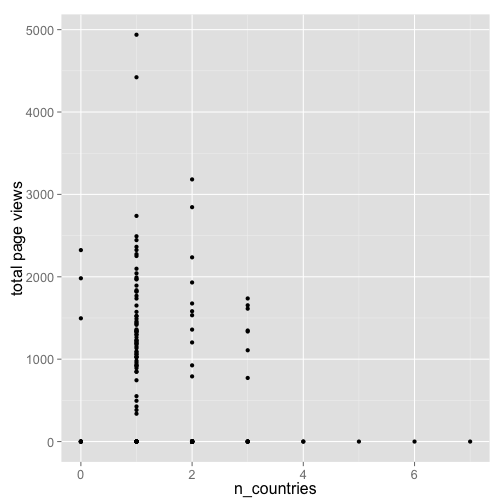
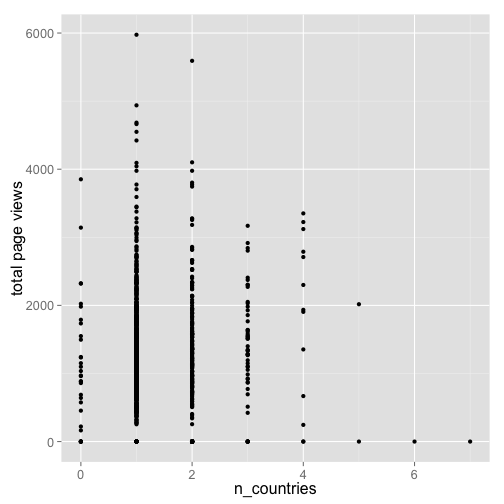
changes

diff --git a/_site/index.html b/_site/index.html
@@ -106,10 +106,10 @@ devtools::install_github("rplos")
 #&gt; [1] "Canada"
 #&gt; 
 #&gt; [[4]]
-#&gt; [1] "United States"
+#&gt; [1] "China"
 #&gt; 
 #&gt; [[5]]
-#&gt; [1] "Canada"
+#&gt; [1] "Germany"
 </code></pre>
 
 <p>You can combine this data with the previously collected data:</p>
@@ -127,27 +127,27 @@ head(articles$data)
 #&gt; 1 10.1371/journal.pone.0004237
 #&gt; 2 10.1371/journal.pone.0006239
 #&gt; 3 10.1371/journal.pone.0034856
-#&gt; 4 10.1371/journal.pone.0023490
-#&gt; 5 10.1371/journal.pone.0023141
-#&gt;                                                                                                                                                                                                                                                                                                                                                                                                                                                                                                                          author_affiliate
-#&gt; 1                                                                                                                                        Division of General Internal Medicine, Department of Medicine, Radboud University Nijmegen Medical Center, Nijmegen, The Netherlands; Nijmegen Institute of Infection, Inflammation and Immunity (N4i), Nijmegen, The Netherlands; Department of Pharmacology and Toxicology, Nijmegen Center for Molecular Life Sciences, Radboud University Nijmegen Medical Center, Nijmegen, The Netherlands
-#&gt; 2                                                                                                                                                                                                                                                                                                                                                              State Key Laboratory of Cognitive Neuroscience and Learning, Beijing Normal University, Beijing, China; Graduate University of Chinese Academy of Sciences, Beijing, China
-#&gt; 3                                                                                                                                                                                                                                                                                                         Rotman Research Institute of Baycrest, Toronto, Ontario, Canada; Department of Psychology, University of Toronto, Toronto, Ontario, Canada; Dalla Lana School of Public Health, University of Toronto, Toronto, Ontario, Canada
-#&gt; 4 AstraZeneca R&amp;D Boston, Waltham, Massachusetts, United States of America; Department of Biology, Rosenstiel Basic Medical Sciences Research Center, Brandeis University, Waltham, Massachusetts, United States of America; Laboratory of Molecular Carcinogenesis, National Institute of Environmental Health Sciences, National Institutes of Health, Research Triangle Park, North Carolina, United States of America; Molecular Cardiology Research Institute, Tufts Medical Center, Boston, Massachusetts, United States of America
-#&gt; 5                                                                                                                                                                                                                                                                                                                                                                                                                                                                  Department of Medicine, McMaster University, Hamilton, Ontario, Canada
-#&gt;       countries
-#&gt; 1   Netherlands
-#&gt; 2         China
-#&gt; 3        Canada
-#&gt; 4 United States
-#&gt; 5        Canada
+#&gt; 4 10.1371/journal.pone.0021965
+#&gt; 5 10.1371/journal.pone.0008295
+#&gt;                                                                                                                                                                                                                                                                                                                                                                                   author_affiliate
+#&gt; 1 Division of General Internal Medicine, Department of Medicine, Radboud University Nijmegen Medical Center, Nijmegen, The Netherlands; Nijmegen Institute of Infection, Inflammation and Immunity (N4i), Nijmegen, The Netherlands; Department of Pharmacology and Toxicology, Nijmegen Center for Molecular Life Sciences, Radboud University Nijmegen Medical Center, Nijmegen, The Netherlands
+#&gt; 2                                                                                                                                                                                                                       State Key Laboratory of Cognitive Neuroscience and Learning, Beijing Normal University, Beijing, China; Graduate University of Chinese Academy of Sciences, Beijing, China
+#&gt; 3                                                                                                                                                                  Rotman Research Institute of Baycrest, Toronto, Ontario, Canada; Department of Psychology, University of Toronto, Toronto, Ontario, Canada; Dalla Lana School of Public Health, University of Toronto, Toronto, Ontario, Canada
+#&gt; 4                                                                                                                             Hefei National Laboratory for Physical Sciences at Microscale, School of Life Sciences, University of Science and Technology of China, Hefei, Anhui, People's Republic of China; School of Life Sciences, Anhui University, Hefei, Anhui, People's Republic of China
+#&gt; 5                                                                                                                                                                                                                                                                                                                   Institute of Biochemistry, Charité-Universitätsmedizin Berlin, Berlin, Germany
+#&gt;     countries
+#&gt; 1 Netherlands
+#&gt; 2       China
+#&gt; 3      Canada
+#&gt; 4       China
+#&gt; 5     Germany
 </code></pre>
 
 <h2>Bigger data set</h2>
 
-<p>Okay, cool, lets do it on a bigger data set:</p>
+<p>Okay, cool, lets do it on a bigger data set, and this time, we'll get another variable <code>counter_total_all</code>, which is the combination of page views/pdf downloads for each article. This will allow us to ask <em>Is number of countries included in the authors related to page views?</em>. I have no idea if this question makes sense, but nonetheless, it is a question :)</p>
 
-<pre><code class="r">articles &lt;- searchplos(q='*:*', limit = 200,
+<pre><code class="r">articles &lt;- searchplos(q='*:*', limit = 1000,
     fl=c("id","counter_total_all","author_affiliate"), 
     fq=list('article_type:"Research Article"', "doc_type:full"))
 </code></pre>
@@ -162,21 +162,28 @@ df &lt;- articles$data
 df$countries &lt;- sapply(countries, splitem)
 </code></pre>
 
+<p>Let's remove those rows with 0 countries, since the authors must be from somewhere, so the country name matching must have errored.</p>
+
+<pre><code class="r">df$n_countries &lt;- sapply(countries, length)
+df &lt;- df[ df$n_countries &gt; 0, ]
+</code></pre>
+
 <p>Plot data</p>
 
 <pre><code class="r">library("ggplot2")
-df$n_countries &lt;- sapply(countries, length)
 ggplot(df, aes(n_countries, as.numeric(counter_total_all))) +
   geom_point() +
   labs(y="total page views") + 
   theme_grey(base_size = 16)
 </code></pre>
 
-<p><img src="/public/img/2014-12-03-rplos-pubs-country/unnamed-chunk-9-1.png" alt="" /></p>
+<p><img src="/public/img/2014-12-03-rplos-pubs-country/unnamed-chunk-10-1.png" alt="" /></p>
+
+<p>Conclusion: meh, maybe, maybe not</p>
 
 <h2>Into rplos</h2>
 
-<p>We'll probably add a function like this into <code>rplos</code>, as a convenient way to get handle this use case.</p>
+<p>We'll probably add a function like this into <code>rplos</code>, as a convenient way to handle this use case.</p>
 
   </div>
   

diff --git a/_site/2014/12/rplos-pubs-country/index.html b/_site/2014/12/rplos-pubs-country/index.html
@@ -100,10 +100,10 @@ devtools::install_github("rplos")
 #&gt; [1] "Canada"
 #&gt; 
 #&gt; [[4]]
-#&gt; [1] "United States"
+#&gt; [1] "China"
 #&gt; 
 #&gt; [[5]]
-#&gt; [1] "Canada"
+#&gt; [1] "Germany"
 </code></pre>
 
 <p>You can combine this data with the previously collected data:</p>
@@ -121,27 +121,27 @@ head(articles$data)
 #&gt; 1 10.1371/journal.pone.0004237
 #&gt; 2 10.1371/journal.pone.0006239
 #&gt; 3 10.1371/journal.pone.0034856
-#&gt; 4 10.1371/journal.pone.0023490
-#&gt; 5 10.1371/journal.pone.0023141
-#&gt;                                                                                                                                                                                                                                                                                                                                                                                                                                                                                                                          author_affiliate
-#&gt; 1                                                                                                                                        Division of General Internal Medicine, Department of Medicine, Radboud University Nijmegen Medical Center, Nijmegen, The Netherlands; Nijmegen Institute of Infection, Inflammation and Immunity (N4i), Nijmegen, The Netherlands; Department of Pharmacology and Toxicology, Nijmegen Center for Molecular Life Sciences, Radboud University Nijmegen Medical Center, Nijmegen, The Netherlands
-#&gt; 2                                                                                                                                                                                                                                                                                                                                                              State Key Laboratory of Cognitive Neuroscience and Learning, Beijing Normal University, Beijing, China; Graduate University of Chinese Academy of Sciences, Beijing, China
-#&gt; 3                                                                                                                                                                                                                                                                                                         Rotman Research Institute of Baycrest, Toronto, Ontario, Canada; Department of Psychology, University of Toronto, Toronto, Ontario, Canada; Dalla Lana School of Public Health, University of Toronto, Toronto, Ontario, Canada
-#&gt; 4 AstraZeneca R&amp;D Boston, Waltham, Massachusetts, United States of America; Department of Biology, Rosenstiel Basic Medical Sciences Research Center, Brandeis University, Waltham, Massachusetts, United States of America; Laboratory of Molecular Carcinogenesis, National Institute of Environmental Health Sciences, National Institutes of Health, Research Triangle Park, North Carolina, United States of America; Molecular Cardiology Research Institute, Tufts Medical Center, Boston, Massachusetts, United States of America
-#&gt; 5                                                                                                                                                                                                                                                                                                                                                                                                                                                                  Department of Medicine, McMaster University, Hamilton, Ontario, Canada
-#&gt;       countries
-#&gt; 1   Netherlands
-#&gt; 2         China
-#&gt; 3        Canada
-#&gt; 4 United States
-#&gt; 5        Canada
+#&gt; 4 10.1371/journal.pone.0021965
+#&gt; 5 10.1371/journal.pone.0008295
+#&gt;                                                                                                                                                                                                                                                                                                                                                                                   author_affiliate
+#&gt; 1 Division of General Internal Medicine, Department of Medicine, Radboud University Nijmegen Medical Center, Nijmegen, The Netherlands; Nijmegen Institute of Infection, Inflammation and Immunity (N4i), Nijmegen, The Netherlands; Department of Pharmacology and Toxicology, Nijmegen Center for Molecular Life Sciences, Radboud University Nijmegen Medical Center, Nijmegen, The Netherlands
+#&gt; 2                                                                                                                                                                                                                       State Key Laboratory of Cognitive Neuroscience and Learning, Beijing Normal University, Beijing, China; Graduate University of Chinese Academy of Sciences, Beijing, China
+#&gt; 3                                                                                                                                                                  Rotman Research Institute of Baycrest, Toronto, Ontario, Canada; Department of Psychology, University of Toronto, Toronto, Ontario, Canada; Dalla Lana School of Public Health, University of Toronto, Toronto, Ontario, Canada
+#&gt; 4                                                                                                                             Hefei National Laboratory for Physical Sciences at Microscale, School of Life Sciences, University of Science and Technology of China, Hefei, Anhui, People's Republic of China; School of Life Sciences, Anhui University, Hefei, Anhui, People's Republic of China
+#&gt; 5                                                                                                                                                                                                                                                                                                                   Institute of Biochemistry, Charité-Universitätsmedizin Berlin, Berlin, Germany
+#&gt;     countries
+#&gt; 1 Netherlands
+#&gt; 2       China
+#&gt; 3      Canada
+#&gt; 4       China
+#&gt; 5     Germany
 </code></pre>
 
 <h2>Bigger data set</h2>
 
-<p>Okay, cool, lets do it on a bigger data set:</p>
+<p>Okay, cool, lets do it on a bigger data set, and this time, we'll get another variable <code>counter_total_all</code>, which is the combination of page views/pdf downloads for each article. This will allow us to ask <em>Is number of countries included in the authors related to page views?</em>. I have no idea if this question makes sense, but nonetheless, it is a question :)</p>
 
-<pre><code class="r">articles &lt;- searchplos(q='*:*', limit = 200,
+<pre><code class="r">articles &lt;- searchplos(q='*:*', limit = 1000,
     fl=c("id","counter_total_all","author_affiliate"), 
     fq=list('article_type:"Research Article"', "doc_type:full"))
 </code></pre>
@@ -156,21 +156,28 @@ df &lt;- articles$data
 df$countries &lt;- sapply(countries, splitem)
 </code></pre>
 
+<p>Let's remove those rows with 0 countries, since the authors must be from somewhere, so the country name matching must have errored.</p>
+
+<pre><code class="r">df$n_countries &lt;- sapply(countries, length)
+df &lt;- df[ df$n_countries &gt; 0, ]
+</code></pre>
+
 <p>Plot data</p>
 
 <pre><code class="r">library("ggplot2")
-df$n_countries &lt;- sapply(countries, length)
 ggplot(df, aes(n_countries, as.numeric(counter_total_all))) +
   geom_point() +
   labs(y="total page views") + 
   theme_grey(base_size = 16)
 </code></pre>
 
-<p><img src="/public/img/2014-12-03-rplos-pubs-country/unnamed-chunk-9-1.png" alt="" /></p>
+<p><img src="/public/img/2014-12-03-rplos-pubs-country/unnamed-chunk-10-1.png" alt="" /></p>
+
+<p>Conclusion: meh, maybe, maybe not</p>
 
 <h2>Into rplos</h2>
 
-<p>We'll probably add a function like this into <code>rplos</code>, as a convenient way to get handle this use case.</p>
+<p>We'll probably add a function like this into <code>rplos</code>, as a convenient way to handle this use case.</p>
 
 </div>
 

diff --git a/_drafts/2014-12-03-rplos-pubs-country.md b/_drafts/2014-12-03-rplos-pubs-country.md
@@ -60,10 +60,10 @@ articles <- searchplos(q='*:*', limit = 5,
 #> [1] "Canada"
 #> 
 #> [[4]]
-#> [1] "United States"
+#> [1] "China"
 #> 
 #> [[5]]
-#> [1] "Canada"
+#> [1] "Germany"
 ```
 
 You can combine this data with the previously collected data:
@@ -83,31 +83,33 @@ head(articles$data)
 #> 1 10.1371/journal.pone.0004237
 #> 2 10.1371/journal.pone.0006239
 #> 3 10.1371/journal.pone.0034856
-#> 4 10.1371/journal.pone.0023490
-#> 5 10.1371/journal.pone.0023141
-#>                                                                                                                                                                                                                                                                                                                                                                                                                                                                                                                          author_affiliate
-#> 1                                                                                                                                        Division of General Internal Medicine, Department of Medicine, Radboud University Nijmegen Medical Center, Nijmegen, The Netherlands; Nijmegen Institute of Infection, Inflammation and Immunity (N4i), Nijmegen, The Netherlands; Department of Pharmacology and Toxicology, Nijmegen Center for Molecular Life Sciences, Radboud University Nijmegen Medical Center, Nijmegen, The Netherlands
-#> 2                                                                                                                                                                                                                                                                                                                                                              State Key Laboratory of Cognitive Neuroscience and Learning, Beijing Normal University, Beijing, China; Graduate University of Chinese Academy of Sciences, Beijing, China
-#> 3                                                                                                                                                                                                                                                                                                         Rotman Research Institute of Baycrest, Toronto, Ontario, Canada; Department of Psychology, University of Toronto, Toronto, Ontario, Canada; Dalla Lana School of Public Health, University of Toronto, Toronto, Ontario, Canada
-#> 4 AstraZeneca R&D Boston, Waltham, Massachusetts, United States of America; Department of Biology, Rosenstiel Basic Medical Sciences Research Center, Brandeis University, Waltham, Massachusetts, United States of America; Laboratory of Molecular Carcinogenesis, National Institute of Environmental Health Sciences, National Institutes of Health, Research Triangle Park, North Carolina, United States of America; Molecular Cardiology Research Institute, Tufts Medical Center, Boston, Massachusetts, United States of America
-#> 5                                                                                                                                                                                                                                                                                                                                                                                                                                                                  Department of Medicine, McMaster University, Hamilton, Ontario, Canada
-#>       countries
-#> 1   Netherlands
-#> 2         China
-#> 3        Canada
-#> 4 United States
-#> 5        Canada
+#> 4 10.1371/journal.pone.0021965
+#> 5 10.1371/journal.pone.0008295
+#>                                                                                                                                                                                                                                                                                                                                                                                   author_affiliate
+#> 1 Division of General Internal Medicine, Department of Medicine, Radboud University Nijmegen Medical Center, Nijmegen, The Netherlands; Nijmegen Institute of Infection, Inflammation and Immunity (N4i), Nijmegen, The Netherlands; Department of Pharmacology and Toxicology, Nijmegen Center for Molecular Life Sciences, Radboud University Nijmegen Medical Center, Nijmegen, The Netherlands
+#> 2                                                                                                                                                                                                                       State Key Laboratory of Cognitive Neuroscience and Learning, Beijing Normal University, Beijing, China; Graduate University of Chinese Academy of Sciences, Beijing, China
+#> 3                                                                                                                                                                  Rotman Research Institute of Baycrest, Toronto, Ontario, Canada; Department of Psychology, University of Toronto, Toronto, Ontario, Canada; Dalla Lana School of Public Health, University of Toronto, Toronto, Ontario, Canada
+#> 4                                                                                                                             Hefei National Laboratory for Physical Sciences at Microscale, School of Life Sciences, University of Science and Technology of China, Hefei, Anhui, People's Republic of China; School of Life Sciences, Anhui University, Hefei, Anhui, People's Republic of China
+#> 5                                                                                                                                                                                                                                                                                                                   Institute of Biochemistry, Charité-Universitätsmedizin Berlin, Berlin, Germany
+#>     countries
+#> 1 Netherlands
+#> 2       China
+#> 3      Canada
+#> 4       China
+#> 5     Germany
 ```
 
 ## Bigger data set
 
-Okay, cool, lets do it on a bigger data set:
+Okay, cool, lets do it on a bigger data set, and this time, we'll get another variable `counter_total_all`, which is the combination of page views/pdf downloads for each article. This will allow us to ask _Is number of countries included in the authors related to page views?_. I have no idea if this question makes sense, but nonetheless, it is a question :)
 
 
 ```r
-articles <- searchplos(q='*:*', limit = 200,
+articles <- searchplos(q='*:*', limit = 1000,
     fl=c("id","counter_total_all","author_affiliate"), 
     fq=list('article_type:"Research Article"', "doc_type:full"))
+#> 1 
+#> 2
 ```
 
 Get countries
@@ -122,20 +124,29 @@ df <- articles$data
 df$countries <- sapply(countries, splitem)
 ```
 
+Let's remove those rows with 0 countries, since the authors must be from somewhere, so the country name matching must have errored. 
+
+
+```r
+df$n_countries <- sapply(countries, length)
+df <- df[ df$n_countries > 0, ]
+```
+
 Plot data
 
 
 ```r
 library("ggplot2")
-df$n_countries <- sapply(countries, length)
 ggplot(df, aes(n_countries, as.numeric(counter_total_all))) +
   geom_point() +
   labs(y="total page views") + 
   theme_grey(base_size = 16)
 ```
 
-![plot of chunk unnamed-chunk-9](figure/unnamed-chunk-9-1.png) 
+![plot of chunk unnamed-chunk-10](figure/unnamed-chunk-10-1.png) 
+
+Conclusion: meh, maybe, maybe not
 
 ## Into rplos
 
-We'll probably add a function like this into `rplos`, as a convenient way to get handle this use case.
+We'll probably add a function like this into `rplos`, as a convenient way to handle this use case.

diff --git a/_posts/2014-12-03-rplos-pubs-country.md b/_posts/2014-12-03-rplos-pubs-country.md
@@ -60,10 +60,10 @@ articles <- searchplos(q='*:*', limit = 5,
 #> [1] "Canada"
 #> 
 #> [[4]]
-#> [1] "United States"
+#> [1] "China"
 #> 
 #> [[5]]
-#> [1] "Canada"
+#> [1] "Germany"
 ```
 
 You can combine this data with the previously collected data:
@@ -83,29 +83,29 @@ head(articles$data)
 #> 1 10.1371/journal.pone.0004237
 #> 2 10.1371/journal.pone.0006239
 #> 3 10.1371/journal.pone.0034856
-#> 4 10.1371/journal.pone.0023490
-#> 5 10.1371/journal.pone.0023141
-#>                                                                                                                                                                                                                                                                                                                                                                                                                                                                                                                          author_affiliate
-#> 1                                                                                                                                        Division of General Internal Medicine, Department of Medicine, Radboud University Nijmegen Medical Center, Nijmegen, The Netherlands; Nijmegen Institute of Infection, Inflammation and Immunity (N4i), Nijmegen, The Netherlands; Department of Pharmacology and Toxicology, Nijmegen Center for Molecular Life Sciences, Radboud University Nijmegen Medical Center, Nijmegen, The Netherlands
-#> 2                                                                                                                                                                                                                                                                                                                                                              State Key Laboratory of Cognitive Neuroscience and Learning, Beijing Normal University, Beijing, China; Graduate University of Chinese Academy of Sciences, Beijing, China
-#> 3                                                                                                                                                                                                                                                                                                         Rotman Research Institute of Baycrest, Toronto, Ontario, Canada; Department of Psychology, University of Toronto, Toronto, Ontario, Canada; Dalla Lana School of Public Health, University of Toronto, Toronto, Ontario, Canada
-#> 4 AstraZeneca R&D Boston, Waltham, Massachusetts, United States of America; Department of Biology, Rosenstiel Basic Medical Sciences Research Center, Brandeis University, Waltham, Massachusetts, United States of America; Laboratory of Molecular Carcinogenesis, National Institute of Environmental Health Sciences, National Institutes of Health, Research Triangle Park, North Carolina, United States of America; Molecular Cardiology Research Institute, Tufts Medical Center, Boston, Massachusetts, United States of America
-#> 5                                                                                                                                                                                                                                                                                                                                                                                                                                                                  Department of Medicine, McMaster University, Hamilton, Ontario, Canada
-#>       countries
-#> 1   Netherlands
-#> 2         China
-#> 3        Canada
-#> 4 United States
-#> 5        Canada
+#> 4 10.1371/journal.pone.0021965
+#> 5 10.1371/journal.pone.0008295
+#>                                                                                                                                                                                                                                                                                                                                                                                   author_affiliate
+#> 1 Division of General Internal Medicine, Department of Medicine, Radboud University Nijmegen Medical Center, Nijmegen, The Netherlands; Nijmegen Institute of Infection, Inflammation and Immunity (N4i), Nijmegen, The Netherlands; Department of Pharmacology and Toxicology, Nijmegen Center for Molecular Life Sciences, Radboud University Nijmegen Medical Center, Nijmegen, The Netherlands
+#> 2                                                                                                                                                                                                                       State Key Laboratory of Cognitive Neuroscience and Learning, Beijing Normal University, Beijing, China; Graduate University of Chinese Academy of Sciences, Beijing, China
+#> 3                                                                                                                                                                  Rotman Research Institute of Baycrest, Toronto, Ontario, Canada; Department of Psychology, University of Toronto, Toronto, Ontario, Canada; Dalla Lana School of Public Health, University of Toronto, Toronto, Ontario, Canada
+#> 4                                                                                                                             Hefei National Laboratory for Physical Sciences at Microscale, School of Life Sciences, University of Science and Technology of China, Hefei, Anhui, People's Republic of China; School of Life Sciences, Anhui University, Hefei, Anhui, People's Republic of China
+#> 5                                                                                                                                                                                                                                                                                                                   Institute of Biochemistry, Charité-Universitätsmedizin Berlin, Berlin, Germany
+#>     countries
+#> 1 Netherlands
+#> 2       China
+#> 3      Canada
+#> 4       China
+#> 5     Germany
 ```
 
 ## Bigger data set
 
-Okay, cool, lets do it on a bigger data set:
+Okay, cool, lets do it on a bigger data set, and this time, we'll get another variable `counter_total_all`, which is the combination of page views/pdf downloads for each article. This will allow us to ask _Is number of countries included in the authors related to page views?_. I have no idea if this question makes sense, but nonetheless, it is a question :)
 
 
 ```r
-articles <- searchplos(q='*:*', limit = 200,
+articles <- searchplos(q='*:*', limit = 1000,
     fl=c("id","counter_total_all","author_affiliate"), 
     fq=list('article_type:"Research Article"', "doc_type:full"))
 ```
@@ -122,20 +122,29 @@ df <- articles$data
 df$countries <- sapply(countries, splitem)
 ```
 
+Let's remove those rows with 0 countries, since the authors must be from somewhere, so the country name matching must have errored. 
+
+
+```r
+df$n_countries <- sapply(countries, length)
+df <- df[ df$n_countries > 0, ]
+```
+
 Plot data
 
 
 ```r
 library("ggplot2")
-df$n_countries <- sapply(countries, length)
 ggplot(df, aes(n_countries, as.numeric(counter_total_all))) +
   geom_point() +
   labs(y="total page views") + 
   theme_grey(base_size = 16)
 ```
 
-![](/public/img/2014-12-03-rplos-pubs-country/unnamed-chunk-9-1.png) 
+![](/public/img/2014-12-03-rplos-pubs-country/unnamed-chunk-10-1.png) 
+
+Conclusion: meh, maybe, maybe not
 
 ## Into rplos
 
-We'll probably add a function like this into `rplos`, as a convenient way to get handle this use case.
+We'll probably add a function like this into `rplos`, as a convenient way to handle this use case.
